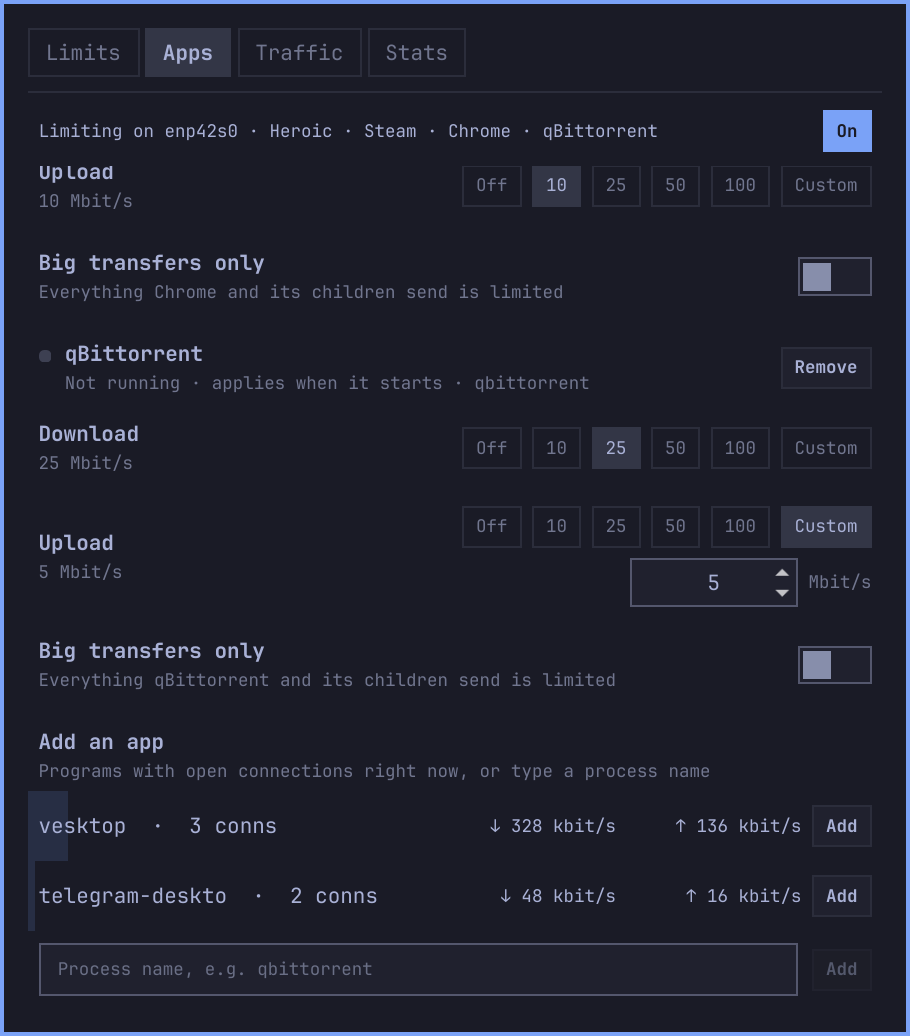
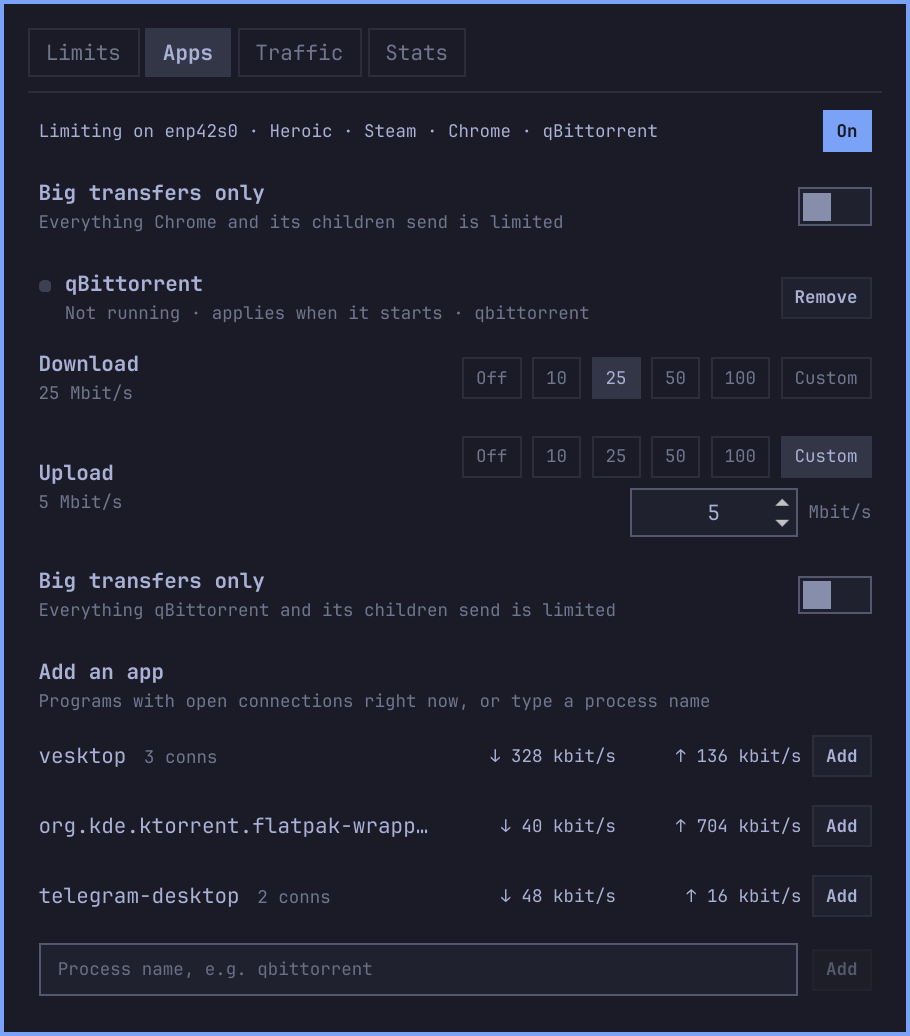
Full program names and clean rows in Apps/Traffic
- Programs whose 15-char process name is cut ('telegram-deskto') show the
  executable name instead; adding one matches by the process name and
  keeps the full name as label. The name field accepts up to 32 chars.
- Names get priority in rows; 'limited · N conns' is a small suffix that
  drops out first, long names end in an ellipsis.
- No more sliver of the share bar at the left edge of rows; suggestion
  rows in Add an app have no bar at all.

diff --git a/components/TrafficRow.qml b/components/TrafficRow.qml
@@ -16,6 +16,7 @@ CursorSurface {
   // Stats rows show byte totals instead of rates.
   property bool bytes: false
   property bool muted: false
+  property bool showBar: true
   // Optional chip on the right ("Add" for candidate apps).
   property string actionText: ""
   property string actionTooltip: ""
@@ -46,22 +47,51 @@ CursorSurface {
     anchors.bottom: parent.bottom
     radius: Style.cornerRadius
     width: parent.width * Math.min(1, (root.down + root.up) / Math.max(1, root.peak))
+    // A few-pixel sliver reads as a stray edge line, not as a share.
+    visible: root.showBar && width >= Math.max(radius * 2, Style.space(12))
     color: Qt.rgba(Commons.Color.accent.r, Commons.Color.accent.g, Commons.Color.accent.b, 0.14)
     Behavior on width { NumberAnimation { duration: 250 } }
   }
 
-  Text {
+  // Name keeps priority: the "limited · N conns" suffix is small and drops
+  // out first; a name that still doesn't fit ends in "…".
+  Item {
+    id: nameBox
     anchors.left: parent.left
     anchors.leftMargin: root.edgeMargin
     anchors.right: rates.left
     anchors.rightMargin: root.edgeMargin
     anchors.verticalCenter: parent.verticalCenter
-    elide: Text.ElideRight
-    textFormat: Text.PlainText
-    text: root.name + (root.limited ? "  ·  limited" : "") + (root.conns > 1 ? "  ·  " + root.conns + " conns" : "")
-    color: root.muted ? Qt.darker(root.contentForeground, 1.5) : root.contentForeground
-    font.family: root.contentFontFamily
-    font.pixelSize: Style.font.body
+    height: nameText.implicitHeight
+
+    readonly property string suffix: (root.limited ? "limited" : "")
+      + (root.limited && root.conns > 1 ? " · " : "") + (root.conns > 1 ? root.conns + " conns" : "")
+    readonly property bool suffixFits: suffix !== "" && nameText.implicitWidth + suffixText.implicitWidth + Style.space(10) <= width
+
+    Text {
+      id: nameText
+      anchors.left: parent.left
+      anchors.verticalCenter: parent.verticalCenter
+      width: Math.min(implicitWidth, parent.width)
+      elide: Text.ElideRight
+      textFormat: Text.PlainText
+      text: root.name
+      color: root.muted ? Qt.darker(root.contentForeground, 1.5) : root.contentForeground
+      font.family: root.contentFontFamily
+      font.pixelSize: Style.font.body
+    }
+    Text {
+      id: suffixText
+      visible: nameBox.suffixFits
+      anchors.left: nameText.right
+      anchors.leftMargin: Style.space(10)
+      anchors.baseline: nameText.baseline
+      textFormat: Text.PlainText
+      text: nameBox.suffix
+      color: Qt.darker(root.contentForeground, 1.5)
+      font.family: root.contentFontFamily
+      font.pixelSize: Style.font.caption
+    }
   }
 
   Row {

diff --git a/Model.js b/Model.js
@@ -76,14 +76,23 @@ function prettyLabel(proc) {
   return s ? s.charAt(0).toUpperCase() + s.slice(1) : s
 }
 
+// The kernel keeps 15 characters of a process name ("telegram-deskto");
+// a longer typed or resolved name is matched by its first 15 and kept as label.
+function procOf(name) { return String(name || "").trim().slice(0, 15) }
+function validName(name) {
+  var n = String(name || "").trim()
+  return n.length <= 32 && /^[A-Za-z0-9][A-Za-z0-9 ._+:-]*$/.test(n) && validProc(procOf(n))
+}
+
 // Patch that adds a custom app for one process name, or null if not allowed.
-function addPatch(cfg, proc) {
-  var name = String(proc || "").trim()
-  if (!validProc(name) || knownProc(cfg, name) || !canAdd(cfg)) return null
-  var key = slugKey(name, cfg)
+function addPatch(cfg, nameIn, labelIn) {
+  var full = String(labelIn || nameIn || "").trim()
+  var name = procOf(nameIn)
+  if (!validName(nameIn) || knownProc(cfg, name) || !canAdd(cfg)) return null
+  var key = slugKey(full, cfg)
   if (!KEY_RE.test(key)) return null
   var p = { apps: {} }
-  p.apps[key] = { label: prettyLabel(name), procs: [name], downMbit: 0, upMbit: 0,
+  p.apps[key] = { label: prettyLabel(full.slice(0, 32)), procs: [name], downMbit: 0, upMbit: 0,
     gamesSafe: DEFAULTS.custom.gamesSafe, bulkMiB: DEFAULTS.custom.bulkMiB, preset: false }
   return p
 }
@@ -101,7 +110,7 @@ function candidates(traffic, cfg) {
   for (var i = 0; i < list.length && out.length < 6; i++) {
     var t = list[i]
     if (!t.own || t.key || !validProc(t.proc) || knownProc(cfg, t.proc)) continue
-    out.push({ proc: t.proc, down: t.down || 0, up: t.up || 0, conns: t.conns || 0 })
+    out.push({ proc: t.proc, full: t.full || t.proc, down: t.down || 0, up: t.up || 0, conns: t.conns || 0 })
   }
   return out
 }
@@ -210,7 +219,7 @@ function appRows(cfg, status, traffic) {
   rows.push({ kind: "section", title: "Add an app", subtitle: "Programs with open connections right now, or type a process name" })
   var c = candidates(traffic, cfg)
   for (var j = 0; j < c.length; j++)
-    rows.push({ kind: "candidate", proc: c[j].proc, title: c[j].proc, down: c[j].down, up: c[j].up, conns: c[j].conns })
+    rows.push({ kind: "candidate", proc: c[j].proc, title: c[j].full, down: c[j].down, up: c[j].up, conns: c[j].conns })
   rows.push({ kind: "addfield", title: "Process name" })
   return rows
 }

diff --git a/Panel.qml b/Panel.qml
@@ -107,7 +107,7 @@ Panel {
 
   function limitedName(name) { return Model.labelCapped(cfg, name) }
 
-  function addApp(proc) { if (store) store.addApp(proc) }
+  function addApp(proc, label) { if (store) store.addApp(proc, label) }
   function removeApp(key) { if (store) store.removeApp(key) }
 
   function stepRange(dx) {
@@ -220,7 +220,7 @@ Panel {
     var r = activeRows[selectedIndex]
     var item = rowItem(selectedIndex)
     if (r && r.kind === "header") { if (item && item.activate) item.activate(); return }
-    if (r && r.kind === "candidate") { addApp(r.proc); return }
+    if (r && r.kind === "candidate") { addApp(r.proc, r.title); return }
     if (r && r.kind === "addfield") { if (item && item.focusField) item.focusField(); return }
     if (r && (r.kind === "stat" || r.kind === "range")) return
     nudge(1)
@@ -552,6 +552,7 @@ Panel {
               up: appWrap.modelData.up || 0
               conns: appWrap.modelData.conns || 0
               peak: root.trafficPeak
+              showBar: false
               actionText: "Add"
               actionTooltip: "Add " + (appWrap.modelData.title || "") + " to the Apps list (no cap until you set one)"
               contentForeground: root.contentForeground
@@ -559,7 +560,7 @@ Panel {
               edgeMargin: root.edgeMargin
               hasCursor: appWrap.cursorHere
               onRowHovered: root.setRowCursor(appWrap.index)
-              onActionClicked: root.addApp(appWrap.modelData.proc)
+              onActionClicked: root.addApp(appWrap.modelData.proc, appWrap.modelData.title)
             }
 
             Throttle.AddRow {
@@ -610,7 +611,8 @@ Panel {
             Throttle.TrafficRow {
               id: trafficRow
               width: parent.width
-              name: trafficWrap.modelData.name || ""
+              // Unconfigured programs: full executable name, not the 15-char comm.
+              name: (trafficWrap.modelData.key ? trafficWrap.modelData.name : (trafficWrap.modelData.full || trafficWrap.modelData.name)) || ""
               down: trafficWrap.modelData.down || 0
               up: trafficWrap.modelData.up || 0
               conns: trafficWrap.modelData.conns || 0

diff --git a/tests/model.test.js b/tests/model.test.js
@@ -68,6 +68,14 @@ for (const n of ["a1", "a2", "a3", "a4", "a5"]) full = M.merged(full, M.addPatch
 eq("max apps", [M.appList(full).length, M.canAdd(full), M.addPatch(full, "a6")], [8, false, null])
 eq("full list shows note instead of add rows", M.appRows(full, status, traffic).slice(-1)[0].kind, "note")
 
+const tg = M.addPatch(cfg, "telegram-deskto", "telegram-desktop")
+eq("long name: matched by 15-char comm, full label/key", [Object.keys(tg.apps)[0], tg.apps["telegram-deskto"] ? "" : Object.values(tg.apps)[0].label, Object.values(tg.apps)[0].procs],
+  ["telegram-deskt", "Telegram-desktop", ["telegram-deskto"]])
+eq("typed long name is cut to the comm", M.addPatch(cfg, "telegram-desktop").apps["telegram-deskt"].procs, ["telegram-deskto"])
+eq("validName", [M.validName("telegram-desktop"), M.validName("x".repeat(33)), M.validName("bash"), M.validName("a/b")], [true, false, false, false])
+eq("candidate carries full name", M.appRows(cfg, status, { apps: [{ name: "telegram-deskto", key: "", proc: "telegram-deskto", full: "telegram-desktop", own: true, down: 1, up: 1, conns: 1 }] })
+  .filter(r => r.kind === "candidate").map(r => [r.proc, r.title]), [["telegram-deskto", "telegram-desktop"]])
+
 // ---- stats ----
 eq("formatBytes", [M.formatBytes(0), M.formatBytes(2048), M.formatBytes(5 * 1048576), M.formatBytes(3 * 1073741824)], ["0 B", "2 KiB", "5.0 MiB", "3.00 GiB"])
 eq("shiftDate across months", [M.shiftDate("2026-03-01", -1), M.shiftDate("2026-12-31", 1)], ["2026-02-28", "2027-01-01"])

diff --git a/components/AddRow.qml b/components/AddRow.qml
@@ -16,8 +16,8 @@ CursorSurface {
   readonly property string name: input.text.trim()
   readonly property string problem: {
     if (root.name === "") return ""
-    if (!Model.validProc(root.name)) return "Not allowed: letters, digits, space . _ + : - (max 15), no shells or system services"
-    if (Model.knownProc(root.cfg, root.name)) return "Already in the list"
+    if (!Model.validName(root.name)) return "Not allowed: letters, digits, space . _ + : -, no shells or system services"
+    if (Model.knownProc(root.cfg, Model.procOf(root.name))) return "Already in the list"
     return ""
   }
   readonly property bool canSubmit: root.name !== "" && root.problem === ""
@@ -64,7 +64,7 @@ CursorSurface {
         width: parent.width - addChip.width - Style.space(8)
         anchors.verticalCenter: parent.verticalCenter
         placeholderText: "Process name, e.g. qbittorrent"
-        maximumLength: 15
+        maximumLength: 32
         foreground: root.contentForeground
         font.family: root.contentFontFamily
         font.pixelSize: Style.font.caption

diff --git a/Service.qml b/Service.qml
@@ -65,8 +65,8 @@ Item {
   function toggleEnabled() { root.setEnabled(!(root.cfg && root.cfg.enabled !== false)) }
   function setGlobal(field, mbit) { root.setPatch(Model.patchFor("", field, Model.clampMbit(mbit))) }
   function setApp(app, field, value) { root.setPatch(Model.patchFor(app, field, value)) }
-  function addApp(proc) {
-    var p = Model.addPatch(root.cfg, proc)
+  function addApp(proc, label) {
+    var p = Model.addPatch(root.cfg, proc, label)
     if (p) root.setPatch(p)
     return p !== null
   }
